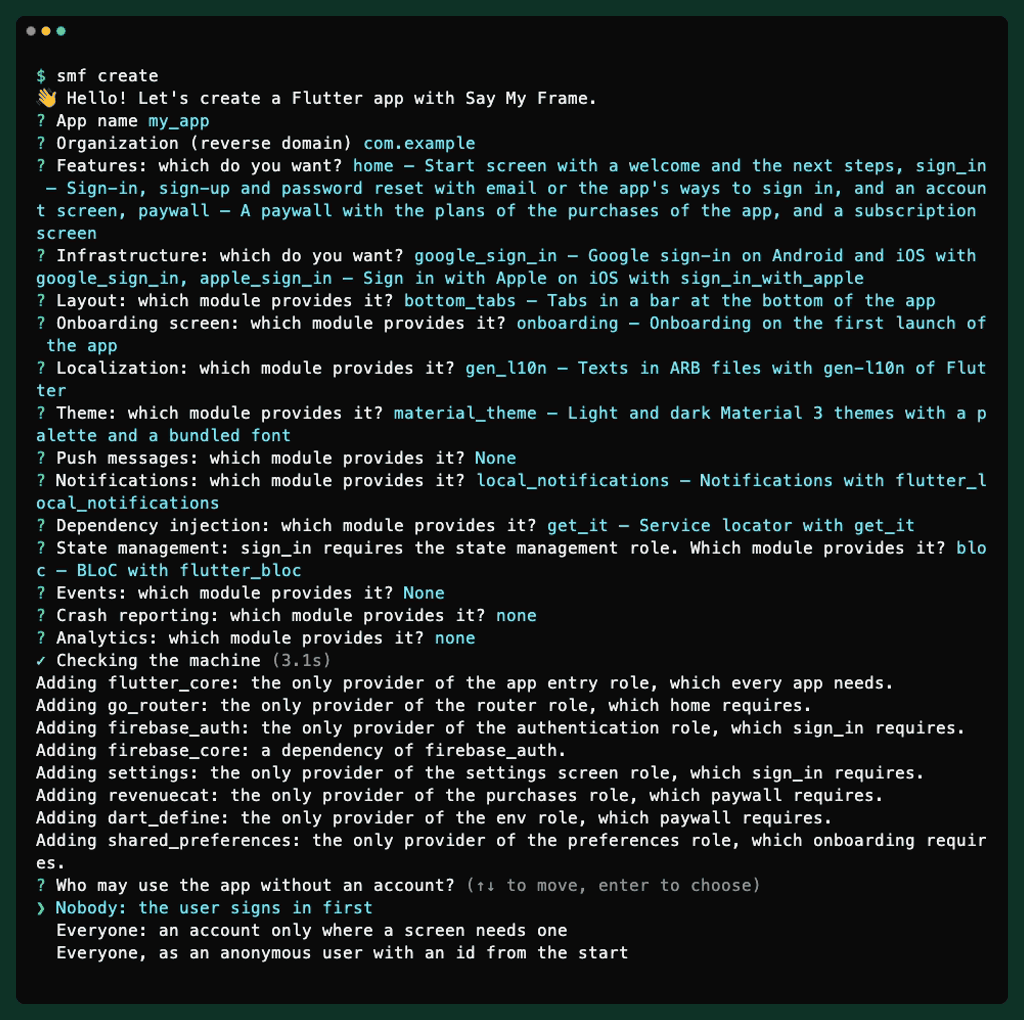
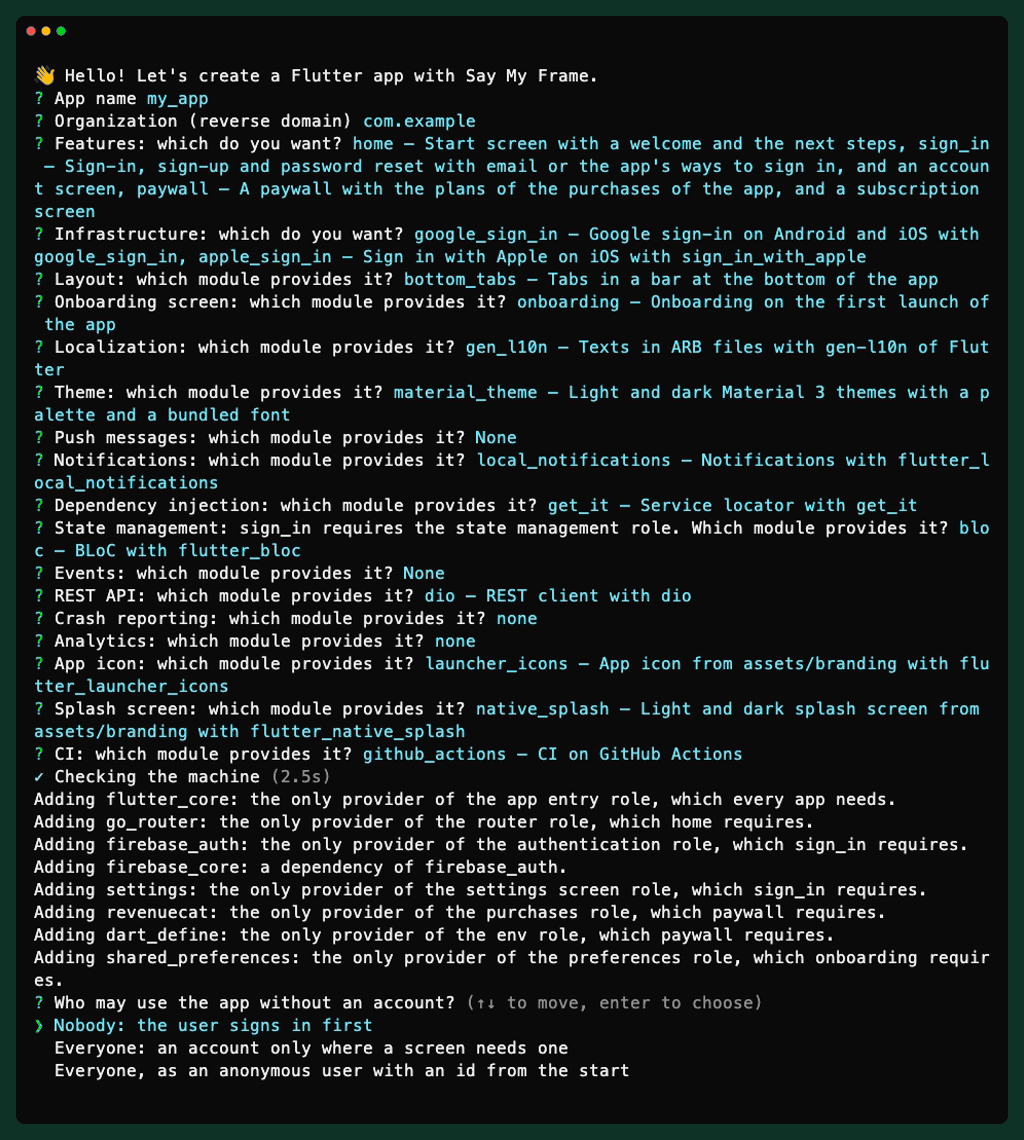
docs(cli): show the recording and the screenshots of 0.8

Changed region(s): [[0.0312, 0.0, 0.9688, 0.9422]]

diff --git a/README.md b/README.md
@@ -12,11 +12,11 @@
 
 Say My Frame (SMF) generates Flutter apps from independent modules. You pick what the app needs, such as a router, tabs at the bottom, sign-in, dependency injection, a state manager, Firebase or a start screen, and `smf create` generates a Flutter project in which these parts already work together. The project does not depend on SMF at run time, so its code is yours from the first commit.
 
-![smf create in a terminal: it asks for the app name and the modules, among them the paywall, Google sign-in, Sign in with Apple, the onboarding and the notifications, adds the modules that the chosen ones need, such as go_router, the settings screen, Firebase Authentication and RevenueCat, asks who may use the app without an account, and generates a Flutter app with an onboarding, a start screen, sign-in with email, Google and Apple, a paywall, tabs at the bottom, a theme, two languages, notifications, get_it and BLoC](https://doc.saymyframe.com/demo/0.7/smf_create.gif)
+![smf create in a terminal: it asks for the app name and the modules, among them the paywall, Google sign-in, Sign in with Apple, the onboarding, the notifications, the REST client, the app icon, the splash screen and GitHub Actions, adds the modules that the chosen ones need, such as go_router, the settings screen, Firebase Authentication and RevenueCat, asks who may use the app without an account, makes the app icon and the splash screen, and generates a Flutter app with an onboarding, a start screen, sign-in with email, Google and Apple, a paywall, tabs at the bottom, a theme, two languages, notifications, get_it, BLoC, dio and a CI workflow](https://doc.saymyframe.com/demo/0.8/smf_create.gif)
 
 With the modules `onboarding`, `sign_in`, `google_sign_in`, `apple_sign_in`, `paywall`, `home`, `bottom_tabs`, `material_theme`, `gen_l10n` and `local_notifications`, the app opens on an onboarding that asks for the permission to show notifications and offers premium access, and then asks the user to sign in with Google, with Apple on iOS or with an email address. It has a start screen, an account screen, a paywall with the plans of a RevenueCat offering, a settings screen with the subscription, a theme mode, a language and the notifications, and a light and a dark theme:
 
-![The app that smf create generates, on a phone: the onboarding, the sign-in with Google, Apple and an email address, the start screen, and the paywall in the dark theme and in Ukrainian](https://doc.saymyframe.com/demo/0.7/app_look.png)
+![The app that smf create generates, on a phone: the onboarding, the sign-in with Google, Apple and an email address, the start screen, and the paywall in the dark theme and in Ukrainian](https://doc.saymyframe.com/demo/0.8/app_look.png)
 
 `sign_in` needs a Firebase project for its accounts, and `paywall` a RevenueCat project for its plans. The other modules of this app need neither.
 

diff --git a/packages/smf_flutter_cli/README.md b/packages/smf_flutter_cli/README.md
@@ -2,11 +2,11 @@
 
 `smf` generates Flutter apps from independent modules. You pick what the app needs, such as a router, tabs at the bottom, sign-in, dependency injection, a state manager, Firebase or a start screen, and `smf create` generates a Flutter project in which these parts already work together. The project does not depend on SMF at run time, so its code is yours from the first commit.
 
-![smf create in a terminal: it asks for the app name and the modules, among them the paywall, Google sign-in, Sign in with Apple, the onboarding and the notifications, adds the modules that the chosen ones need, such as go_router, the settings screen, Firebase Authentication and RevenueCat, asks who may use the app without an account, and generates a Flutter app with an onboarding, a start screen, sign-in with email, Google and Apple, a paywall, tabs at the bottom, a theme, two languages, notifications, get_it and BLoC](https://doc.saymyframe.com/demo/0.7/smf_create.gif)
+![smf create in a terminal: it asks for the app name and the modules, among them the paywall, Google sign-in, Sign in with Apple, the onboarding, the notifications, the REST client, the app icon, the splash screen and GitHub Actions, adds the modules that the chosen ones need, such as go_router, the settings screen, Firebase Authentication and RevenueCat, asks who may use the app without an account, makes the app icon and the splash screen, and generates a Flutter app with an onboarding, a start screen, sign-in with email, Google and Apple, a paywall, tabs at the bottom, a theme, two languages, notifications, get_it, BLoC, dio and a CI workflow](https://doc.saymyframe.com/demo/0.8/smf_create.gif)
 
 With the modules `onboarding`, `sign_in`, `google_sign_in`, `apple_sign_in`, `paywall`, `home`, `bottom_tabs`, `material_theme`, `gen_l10n` and `local_notifications`, the app opens on an onboarding that asks for the permission to show notifications and offers premium access, and then asks the user to sign in with Google, with Apple on iOS or with an email address. It has a start screen, an account screen, a paywall with the plans of a RevenueCat offering, a settings screen with the subscription, a theme mode, a language and the notifications, and a light and a dark theme:
 
-![The app that smf create generates, on a phone: the onboarding, the sign-in with Google, Apple and an email address, the start screen, and the paywall in the dark theme and in Ukrainian](https://doc.saymyframe.com/demo/0.7/app_look.png)
+![The app that smf create generates, on a phone: the onboarding, the sign-in with Google, Apple and an email address, the start screen, and the paywall in the dark theme and in Ukrainian](https://doc.saymyframe.com/demo/0.8/app_look.png)
 
 `sign_in` needs a Firebase project for its accounts, and `paywall` a RevenueCat project for its plans. The other modules of this app need neither.
 
